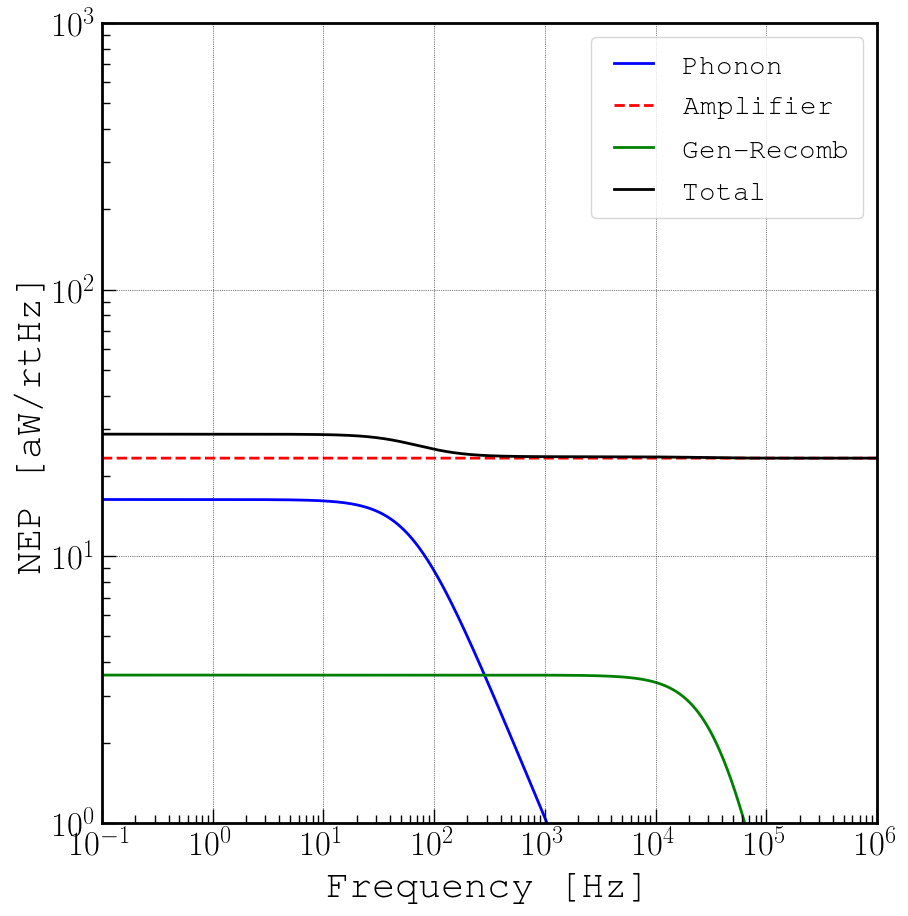
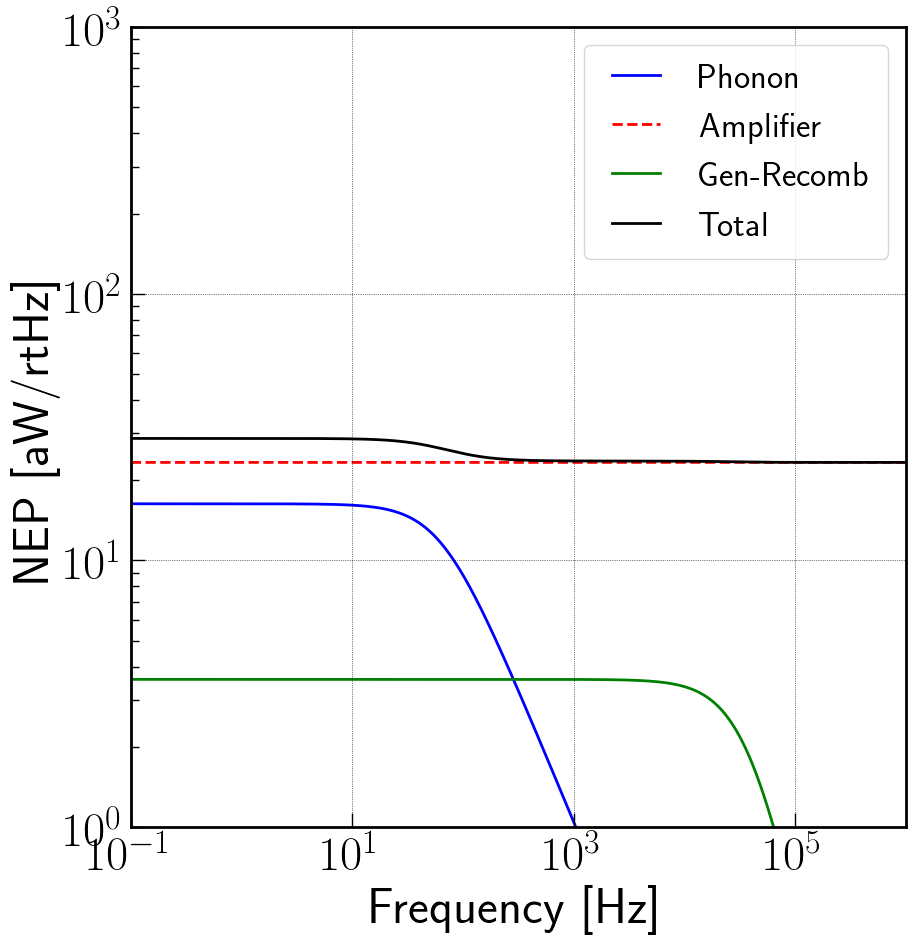
TKID TLS noise predictions

diff --git a/mkidsens/tkid_params.py b/mkidsens/tkid_params.py
@@ -12,8 +12,9 @@ from scipy.special import kn, iv
 import pdb
 
 np.set_printoptions(precision=4)
-verbose = False
+verbose = True
 datatype = u.quantity.Quantity
+plot_dir = 'waffle_plots/'
 
 def niceprint(*args):
 	print(*("{0:0.4f}".format(a) if isinstance(a, datatype) or\
@@ -49,8 +50,10 @@ T_c = 1.329 * u.Kelvin
 T_0 = 0.25 * u.Kelvin # Previously 0.23K Temperature of the thermal bath
 
 # Material properties of the Aluminum superconductor
-tau_max = 500 * u.microsecond
-n_qp_star = 100 * 1/u.um**3
+tau_max = 488.1 * u.microsecond
+n_qp_star = 763 * 1/u.um**3
+#tau_max = 500 * u.microsecond
+#n_qp_star = 100 * 1/u.um**3
 gamma = 1.35 * u.mJ/u.mol/u.Kelvin**2
 density = 2.7 * u.g/u.cm**3
 A_r = 26.98 * u.g/u.mol
@@ -95,11 +98,11 @@ class OperatingPoint:
 
 
 	def __init__(self, P_opt=0*u.pW, f_r=305.8*u.MHz, T_0=250*u.mK,\
-		P_read=-81*dBm):
+		P_g=-81*dBm):
 		self.f_g = f_r #We will work exactly on resonance
 		self.f_r = f_r
 		self.T_0 = T_0 #Temperature of the thermal bath
-		self.P_read = P_read.to(u.pW)
+		self.P_g = P_g.to(u.pW)
 		self.P_opt = P_opt
 		self.K_leg = 0
 		self.gamma_leg = 1
@@ -109,8 +112,8 @@ class OperatingPoint:
 		print ("Resonator parameters set.")
 
 	def calculate_noise(self):
-		self.x = 0.5*self.P_read/self.P_opt
-		self.P_total = 0.5*self.P_read + self.P_opt
+		self.x = 0.5*self.P_g/self.P_opt
+		self.P_total = 0.5*self.P_g + self.P_opt
 		#pdb.set_trace()
 		self.T_b= (((self.P_total/self.K_leg).si.value +
 			self.T_0.si.value**self.gamma_leg)**(1./self.gamma_leg))*u.Kelvin
@@ -143,9 +146,9 @@ class OperatingPoint:
 		self.beta = S_2/S_1
 
 		N_0 = ((3 * (gamma * (density/A_r)))/(2*np.pi**2 * k_B**2)).to('1/(J um^3)')
-		print (N_0.to(1/u.um**3/u.eV)/1e10)
-		exit()
-		Gamma_gen = (eta_read * self.P_read/Delta).to('1/s')
+		#print (N_0.to(1/u.um**3/u.eV)/1e10)
+		#exit()
+		Gamma_gen = (eta_read * self.P_g/Delta).to('1/s')
 		self.n_th = (2*N_0 * np.sqrt(2*np.pi* k_B * self.T_b* Delta)*np.exp(-Delta/(k_B*self.T_b))).to('1/um^3')
 		E_crit = 2 * N_0 * Delta**2 * V_sc
 		niceprint ("Quasiparticle parameters calculated.\n")
@@ -180,7 +183,9 @@ class OperatingPoint:
 		self.chi_c = (4 * self.Q_r**2)/(self.Q_i * self.Q_c)
 		self.chi_g = 1./(1 + (self.df_g/self.df_r)**2)
 		self.chi_qp = self.Q_i/self.Q_qp
-		self.P_g = (2/self.chi_c) * self.P_read
+		self.P_diss = (self.chi_g*self.chi_c/2) * self.P_g
+		self.E_stored = (self.P_diss*self.Q_i/self.omega_r).to(u.eV)
+		self.N_ph = (self.E_stored/(hbar*self.omega_r)).to(1) # number of #microwave photons
 
 		if verbose:
 			niceprint("")
@@ -204,6 +209,7 @@ class OperatingPoint:
 			niceprint ("dln n_qp/ d ln T_b", self.kappa)
 			niceprint ("Conductance of Island ", self.G_b)
 			niceprint ("Heat Capacity of Island ", self.C_b)
+			niceprint ("Quasiparticle density, n_qp ", self.n_th)
 			niceprint ("Quasiparticle lifetime, tau_qp ", self.tau_qp)
 			niceprint ("Equilibrium qp lifetime, tau_th ", self.tau_th)
 			niceprint ("Bolometer Time constant", self.tau_b)
@@ -211,10 +217,12 @@ class OperatingPoint:
 
 			niceprint ("")
 			niceprint ("The optical power is ", self.P_opt)
-			niceprint ("The readout power is ", self.P_read)
-			niceprint ("The generated power is ", self.P_g)
+			niceprint ("The readout power is ", self.P_g)
+			niceprint ("The dissipated power is ", self.P_diss)
 			niceprint ("Critical readout power ", self.P_crit)
 			niceprint ("The island power, P_b ", self.P_b)
+			niceprint ("The Energy stored , E ", self.E_stored)
+			print ("The Number of Microwave Photons, Nph %1.2e"%(self.N_ph))
 
 		# Calculating the responsivities on resonance
 		# r = dx/dPopt
@@ -228,29 +236,79 @@ class OperatingPoint:
 	def calculate_noise_spectra(self):
 
 		# Phonon NEP
+		n = self.gamma_leg - 1
+		chi_ph = (n+1)/(2*n+3) * ((self.T_0/self.T_b).to(1)**(2*n+3)-1)/\
+				((self.T_0/self.T_b).to(1)**(n+1) - 1)
+		niceprint ("The bolometer flink factor ", chi_ph)
 		self.S_ph = (4 * chi_ph * k_B * self.T_b**2 * self.G_b ).to(u.aW**2/u.Hz)
 
 		self.NEP_ph = self.S_ph ** 0.5
+		self.NEF_ph = (self.r_f * self.NEP_ph).to(u.Hz**0.5)
 
 		# Amplifier NEP
 		self.S_amp = (k_B * T_amp/self.P_g).to(1/u.Hz)
 
 		self.NEP_amp = (2 * self.S_amp**0.5/self.r/self.chi_c/self.Q_i).to(u.aW/u.Hz**0.5)
+		self.NEF_amp = (self.r_f * self.NEP_amp).to(u.Hz**0.5)
 
 		# Shot NEP
 		self.S_shot = 2 * self.n_qp * V_sc * (1/tau_max + 1/self.tau_qp)
 
 		self.NEP_gr = (self.S_shot**0.5 * (self.tau_th/(self.n_qp * V_sc) * self.P_b/self.kappa)).to(u.aW/u.Hz**0.5)
+		self.NEF_gr = (self.r_f * self.NEP_gr).to(u.Hz**0.5)
+
+		# TLS NEP
+		self.Stls0 = 1.2e-15/u.Hz
+		self.beta_tls = 2
+		self.nu_tls = 1 * u.Hz
+		self.nu_ref = 1 * u.kHz
+		# TLS spectrum at 1 Hz
+		self.Stls = self.Stls0/np.sqrt(self.N_ph)*(self.T_b/(0.12*u.K))**(-self.beta_tls)\
+				*(self.nu_tls/self.nu_ref)**(-0.5)
+		self.NEF_tls = (self.Stls**0.5*self.f_r).to(u.Hz**0.5)
+		self.NEP_tls = (self.Stls**0.5/self.r).to(u.aW/u.Hz**0.5)
 
 		# Total NEP
-		self.NEP_total = (self.NEP_gr**2 + self.NEP_amp**2 + self.NEP_ph**2)**0.5
+		self.NEP_total = (self.NEP_gr**2 + self.NEP_amp**2 + self.NEP_ph**2 + self.NEP_tls**2)**0.5
+		self.NEF_total = (self.NEF_gr**2 + self.NEF_amp**2 + self.NEF_ph**2 + self.NEF_tls**2)**0.5
 
+		niceprint ("")
+		niceprint ("Phonon NEF", self.NEF_ph)
+		niceprint ("Amplifier NEF", self.NEF_amp)
+		niceprint ("Shot NEF", self.NEF_gr)
+		niceprint ("TLS NEF @ 1Hz", self.NEF_tls)
+		niceprint ("Total NEF", self.NEF_total)
 		niceprint ("")
 		niceprint ("Phonon NEP", self.NEP_ph)
 		niceprint ("Amplifier NEP", self.NEP_amp)
 		niceprint ("Shot NEP", self.NEP_gr)
+		niceprint ("TLS NEP @ 1Hz", self.NEP_tls)
 		niceprint ("Total NEP", self.NEP_total)
 
+
+	def plot_NEF(self, ax, fmax=6):
+		self.calculate_noise_spectra()
+		self.nu = np.logspace(-1, fmax, 5000) * u.Hz
+		self.ones = np.ones_like(self.nu.value)
+		self.bolo_rolloff =  1/(1 + 1j * 2 * np.pi * (self.nu * self.tau_b).to(1))
+		self.qp_rolloff =  1/(1 + 1j * 2 * np.pi * (self.nu * self.tau_qp).to(1))
+		self.reso_rolloff =  1/(1 + 1j * (self.nu / self.df_r).to(1))
+		self.bolo_rolloff = np.abs(self.bolo_rolloff)
+		self.qp_rolloff = np.abs(self.qp_rolloff)
+		self.reso_rolloff = np.abs(self.reso_rolloff)
+
+		self.NEF_ph_spec = self.NEF_ph * self.bolo_rolloff
+		self.NEF_amp_spec = self.NEF_amp * self.ones
+		self.NEF_gr_spec = self.NEF_gr * self.qp_rolloff * self.reso_rolloff
+		self.NEF_tls_spec = self.NEF_tls * (self.nu/self.nu_tls)**(-0.25)
+		self.NEF_total_spec = (self.NEF_gr_spec**2 + self.NEF_amp_spec**2 +
+				self.NEF_ph_spec**2 + self.NEF_tls_spec**2)**0.5
+
+		ax.loglog(self.nu, self.NEF_ph_spec, 'b', label='Phonon')
+		ax.loglog(self.nu, self.NEF_amp_spec, 'r--', label='Amplifier')
+		ax.loglog(self.nu, self.NEF_gr_spec, 'g', label='Gen-Recomb')
+		ax.loglog(self.nu, self.NEF_tls_spec, 'm-.', label='TLS')
+		ax.loglog(self.nu, self.NEF_total_spec, 'k', label='Total')
 
 	def plot_noise(self, ax, fmax=6):
 		self.calculate_noise_spectra()
@@ -266,12 +324,14 @@ class OperatingPoint:
 		self.NEP_ph_spec = self.NEP_ph * self.bolo_rolloff
 		self.NEP_amp_spec = self.NEP_amp * self.ones
 		self.NEP_gr_spec = self.NEP_gr * self.qp_rolloff * self.reso_rolloff
+		self.NEP_tls_spec = self.NEP_tls * (self.nu/self.nu_tls)**(-0.25)
 		self.NEP_total_spec = (self.NEP_gr_spec**2 + self.NEP_amp_spec**2 +
-				self.NEP_ph_spec**2)**0.5
+				self.NEP_ph_spec**2 + self.NEP_tls_spec**2)**0.5
 
 		ax.loglog(self.nu, self.NEP_ph_spec, 'b', label='Phonon')
 		ax.loglog(self.nu, self.NEP_amp_spec, 'r--', label='Amplifier')
 		ax.loglog(self.nu, self.NEP_gr_spec, 'g', label='Gen-Recomb')
+		ax.loglog(self.nu, self.NEP_tls_spec, 'm-.', label='TLS')
 		ax.loglog(self.nu, self.NEP_total_spec, 'k', label='Total')
 
 
@@ -285,26 +345,26 @@ if __name__=="__main__":
 	Npowers = 10
 	Vdc = np.linspace(0, Vmax, Npowers)*u.Volt
 	P_opt = ((Rh/Rb[:, np.newaxis]**2)*Vdc**2).to(u.pW)
-	print (P_opt.shape)
-	gamma_leg = np.array([3.131, 2.918, 3.031])# conductivity index = beta + 1
-	K_leg = np.array([403.705, 186.552, 141.179])* u.picoWatt
+	#print (P_opt)
+	gamma_leg = np.array([2.962, 2.754, 2.862])# conductivity index = beta + 1
+	K_leg = np.array([352, 165, 122])* u.picoWatt
 	Cc = np.array([0.3984, 0.3731, 0.3478])*u.pF
 	T_c = 1.329 * u.Kelvin
-	T_0 = 0.25 * u.Kelvin # Previously 0.23K Temperature of the thermal bath
-	P_read = -81*dBm
-	P_read -= 20*np.log10(4)*dB # Accounting for the 4 resonators being read at the
+	T_0 = 0.08 * u.Kelvin
+	P_g = -80*dBm
+	P_g -= 20*np.log10(4)*dB # Accounting for the 4 resonators being read at the
 	# same time
 	#P_opt = 10*u.pW
 	NEPs = np.zeros((len(frequencies), Npowers))
 	NEPs_ph = np.zeros((len(frequencies), Npowers))
 	NEPs_amp = np.zeros((len(frequencies), Npowers))
 	for ireso, reso in enumerate(frequencies):
-		op = OperatingPoint(P_opt=0*u.pW, f_r=reso, T_0=T_0, P_read=P_read)
+		op = OperatingPoint(P_opt=0*u.pW, f_r=reso, T_0=T_0, P_g=P_g)
 		op.C_c1 = Cc[ireso]
 		op.gamma_leg = gamma_leg[ireso]
 		op.K_leg = K_leg[ireso]/u.Kelvin**gamma_leg[ireso]
 		for ipow in range(Npowers):
-			#if ipow != 6: continue
+			if ipow > 0: continue
 			op.P_opt = P_opt[ireso, ipow]
 			op.calculate_noise()
 			op.calculate_noise_spectra()
@@ -320,7 +380,18 @@ if __name__=="__main__":
 			ax.set_xlim([0.1, 1e6])
 			ax.grid(which='major', axis='both')
 			ax.legend(loc='best')
-			plt.savefig('Waffle_TKID_%.1fMHz_%.1fpW_Noise_Prediction.png'%(frequencies[ireso].value, P_opt[ireso, ipow].value))
+			plt.savefig(plot_dir + 'Waffle_TKID_%.1fMHz_%.1fpW_NEP.png'%(frequencies[ireso].value, P_opt[ireso, ipow].value))
+			plt.close()
+			fig, ax = plt.subplots(figsize=(10,10))
+			op.plot_NEF(ax)
+			ax.set_title("%.1f MHz reso biased at %.1f pW"%(frequencies[ireso].value, P_opt[ireso, ipow].value))
+			ax.set_xlabel(r'Frequency [Hz]')
+			ax.set_ylabel(r'NEF [Hz/rtHz]')
+			ax.set_ylim([0.01, 100])
+			ax.set_xlim([0.1, 1e6])
+			ax.grid(which='major', axis='both')
+			ax.legend(loc='best')
+			plt.savefig(plot_dir + 'Waffle_TKID_%.1fMHz_%.1fpW_NEF.png'%(frequencies[ireso].value, P_opt[ireso, ipow].value))
 			plt.close()
 			#op.calculate_noise_spectra()
 	#op.calculate_noise()
@@ -334,7 +405,7 @@ if __name__=="__main__":
 	#ax.legend(loc='best')
 	#plt.savefig('Waffle_TKID_305.8MHz_Noise_Prediction.png')
 	exit()
-	P_readout = (1*u.mW*10**(P_read.value/10)).to(u.pW)
+	P_readout = (1*u.mW*10**(P_g.value/10)).to(u.pW)
 	print (P_readout)
 	for ireso, reso in enumerate(frequencies):
 		fig, ax = plt.subplots(figsize=(10,10))

diff --git a/mkidsens/tlsTKIDprediction.py b/mkidsens/tlsTKIDprediction.py
@@ -96,7 +96,7 @@ if __name__=="__main__":
 	n = 1.862
 	K = 122*pW#/K^(n+1)
 	nu = fr*MHz
-	Tbath = 80e-3
+	Tbath = 90e-3
 
 	Ntemps = 115
 	Npowers = 110
@@ -126,7 +126,7 @@ if __name__=="__main__":
 	nu1 = 1
 	nu2 = 1e3
 	T2 = 120e-3
-	beta = 1.8
+	beta = 2.0
 	Stls = Atls/np.sqrt(N)*(nu1/nu2)**(-0.5)*(temps/T2)**(-beta)
 	NEFtls = nu*np.sqrt(Stls)
 	NEPtls = np.sqrt(Stls)/responsivity
